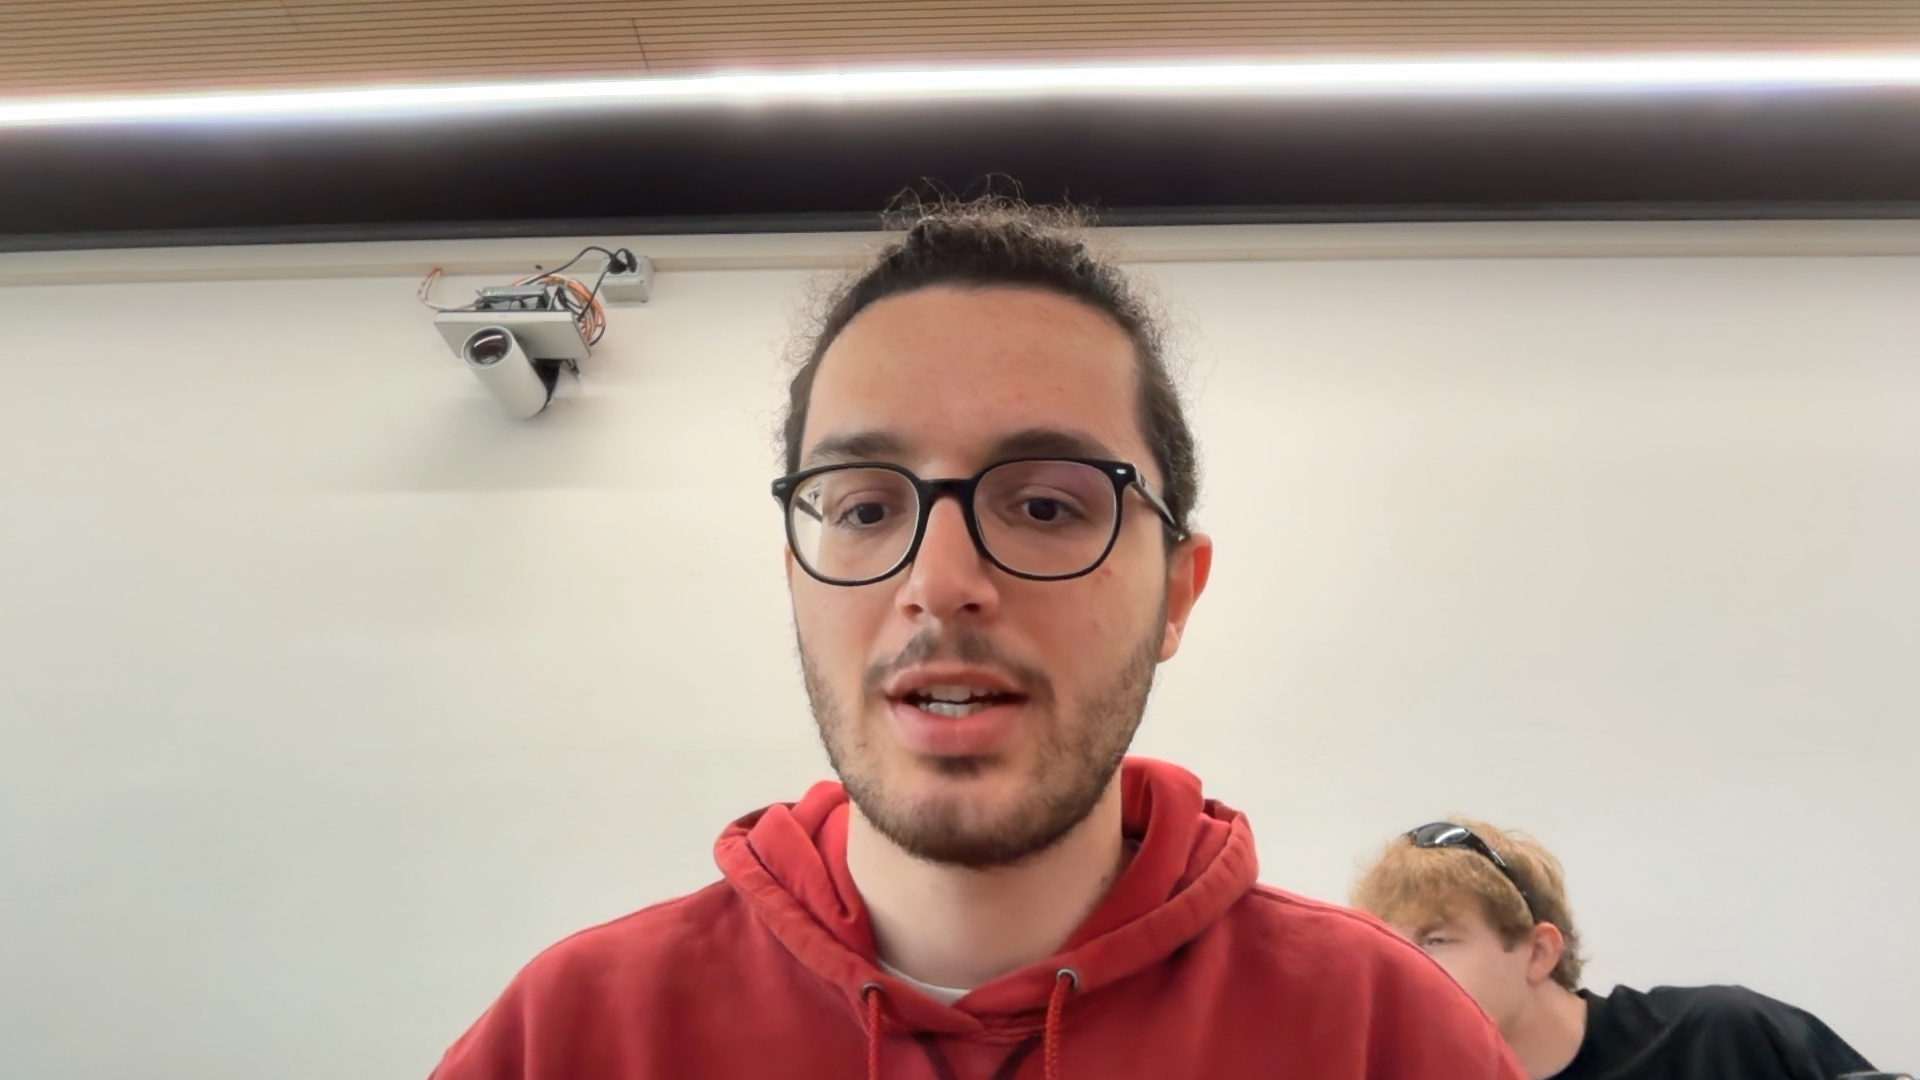
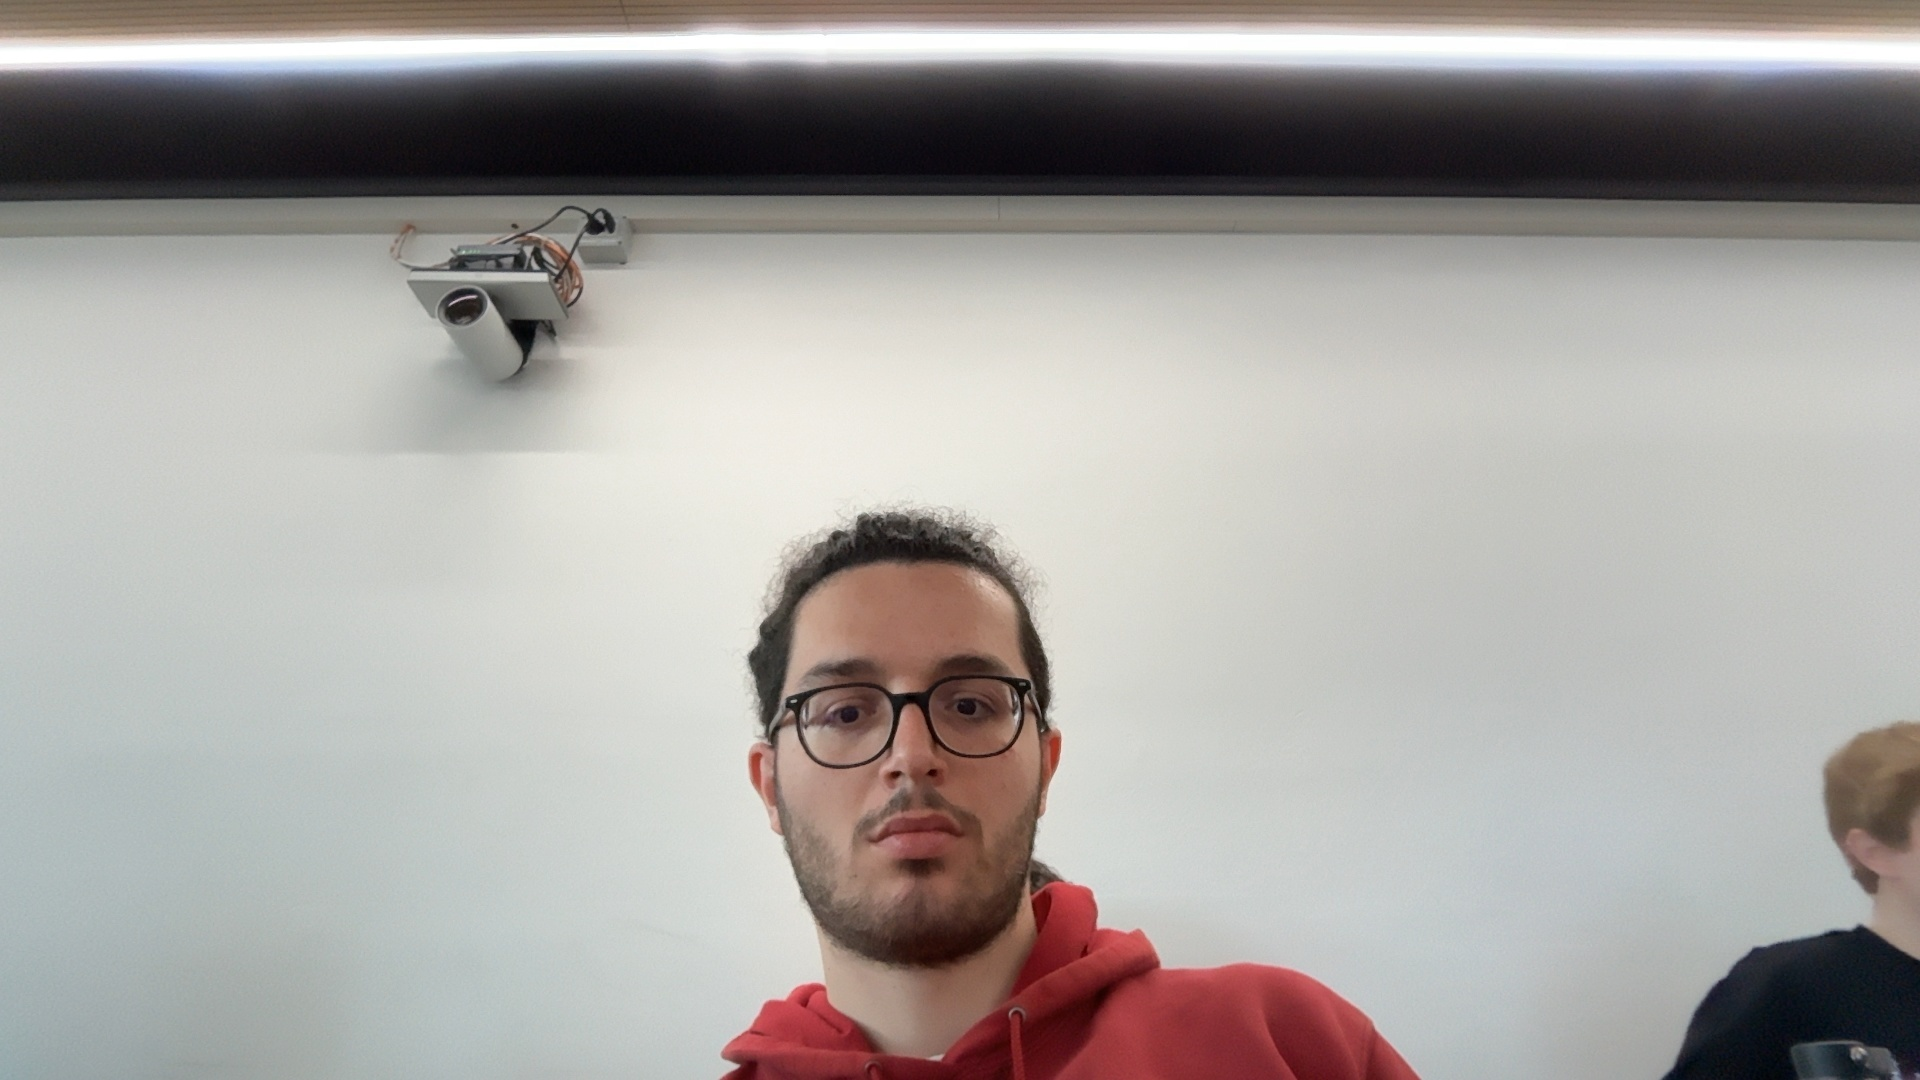
Fixed sync ends of generation and prompt generation

diff --git a/life_of_chuck.py b/life_of_chuck.py
@@ -7,7 +7,7 @@ import subprocess
 import threading
 import time
 from google import genai
-from process_coordinator import init_flags, signal_gui_complete
+from process_coordinator import init_flags, signal_gui_complete, wait_for_pipeline_only
 
 GEMINI_API_KEY = "AIzaSyAL4NxY6azP6trq8P_RXIApViN_8tvY9_A"
 
@@ -96,20 +96,27 @@ class LifeOfChuckApp:
                 Dati Utente: {data}
                 Età attuale: {current_age}
                 
-                OBIETTIVO:
-                Scrivi una biografia futura narrativa, logica e molto dettagliata. 
-                Decidi tu l'età del decesso (longevità casuale).
-                Dividi in blocchi decennali: [AGE X], [AGE Y]... e [DEATH].
+                OBJECTIVE:
+                Generate exactly 5 raw image prompts for a generative AI. 
+                NO SENTENCES. NO STORY. NO VERBS.
 
-                REGOLE MANDATORIE:
-                1. Ogni blocco deve contenere una narrazione di ALMENO 150 PAROLE. Sii estremamente descrittivo riguardo al lavoro e al raggiungimento dei sogni.
-                2. Ogni singola parola deve essere seguita da una virgola (esempio: Il, successo, arriva, dopo, anni, di, fatica,).
-                3. Non usare punti fermi, usa solo virgole dopo ogni parola.
-                4. Focus: Evoluzione professionale, traguardi del sogno, collaborazioni, impatto nel settore. No descrizioni fisiche.
-                5. Lingua: Inglese.
-                6. Tieni a questo punto unicamente le parole chiave della biografia più soignificative
-                
-                IMPORTANTE: Se la narrazione di un blocco è inferiore alle 150 parole, espandi i dettagli lavorativi e i pensieri della persona.
+                STRUCTURE:
+                - Exactly 5 blocks: [AGE X] (4 random ages) and [DEATH].
+                - start from the current age, never go below it.
+
+                STRICT FORMAT RULES:
+                1. WORDS: Each block must have EXACTLY 12 words.
+                2. CONTENT: Only visual nouns and adjectives.
+                3. BANNED: No 'is', 'has', 'the', 'with', 'a', 'of', 'in', 'to'. No verbs.
+                4. PUNCTUATION: Every single word MUST be followed by a comma.
+                5. NO PERIODS: Zero dots. Only commas.
+                6. FOCUS: Lighting, materials, atmosphere, specific objects.
+                7. REALISM: Include decay, shadows, and gritty details.
+
+                EXAMPLE OF DESIRED OUTPUT:
+                [AGE 42]
+                Rusty, metal, flickering, neon, blue, rain, wet, pavement, silhouette, cinematic, fog, smoke,
+
                 """
                 
                 response = client.models.generate_content(
@@ -293,7 +300,34 @@ class EndPage(PageWithBackground):
         self.controller.fetch_gemini_bio(self.on_complete)
 
     def on_complete(self, message):
+        # Text generation complete, now wait for aging pipeline
         self.canvas.itemconfig(self.status_label, text=message)
+        #self.canvas.create_text(500, 460, text="Waiting for aging process...", font=("Georgia", 18, "italic"), fill="white", tags="waiting")
+
+        # Start waiting for pipeline in background thread
+        threading.Thread(target=self.wait_for_pipeline, daemon=True).start()
+
+    def wait_for_pipeline(self):
+        """Wait for aging pipeline to complete, then show FINISH button."""
+        # Wait for pipeline (timeout 5 minutes)
+        pipeline_done = wait_for_pipeline_only(timeout=300, check_interval=1.0)
+
+        # Update UI on main thread
+        if pipeline_done:
+            self.controller.root.after(0, self.show_finish_button)
+        else:
+            self.controller.root.after(0, self.show_timeout_message)
+
+    def show_finish_button(self):
+        """Show the FINISH button (called when both processes are done)."""
+        self.canvas.delete("waiting")
+        #self.canvas.create_text(500, 460, text="All processes complete!", font=("Georgia", 18, "italic"), fill="white")
+        tk.Button(self, text="FINISH", **BUTTON_STYLE, command=self.finish_and_signal).place(x=350, y=550)
+
+    def show_timeout_message(self):
+        """Show timeout message if pipeline didn't complete."""
+        self.canvas.delete("waiting")
+        #self.canvas.create_text(500, 460, text="Aging process timed out. You can still finish.", font=("Georgia", 16, "italic"), fill="orange")
         tk.Button(self, text="FINISH", **BUTTON_STYLE, command=self.finish_and_signal).place(x=350, y=550)
 
     def finish_and_signal(self):

diff --git a/process_coordinator.py b/process_coordinator.py
@@ -126,6 +126,31 @@ def wait_for_both(timeout=300, check_interval=0.5):
     return False
 
 
+def wait_for_pipeline_only(timeout=300, check_interval=0.5):
+    """
+    Wait only for pipeline completion (used by GUI after text generation).
+
+    Args:
+        timeout: Maximum seconds to wait (default 5 minutes)
+        check_interval: Seconds between checks
+
+    Returns:
+        True if pipeline completed, False if timeout
+    """
+    start_time = time.time()
+
+    print("[Coordinator] Waiting for aging pipeline to complete...")
+
+    while time.time() - start_time < timeout:
+        if is_pipeline_complete():
+            print("[Coordinator] Pipeline is complete!")
+            return True
+        time.sleep(check_interval)
+
+    print("[Coordinator] Timeout waiting for pipeline")
+    return False
+
+
 if __name__ == "__main__":
     # Test/debug mode
     print("Process Coordinator - Debug Mode")
